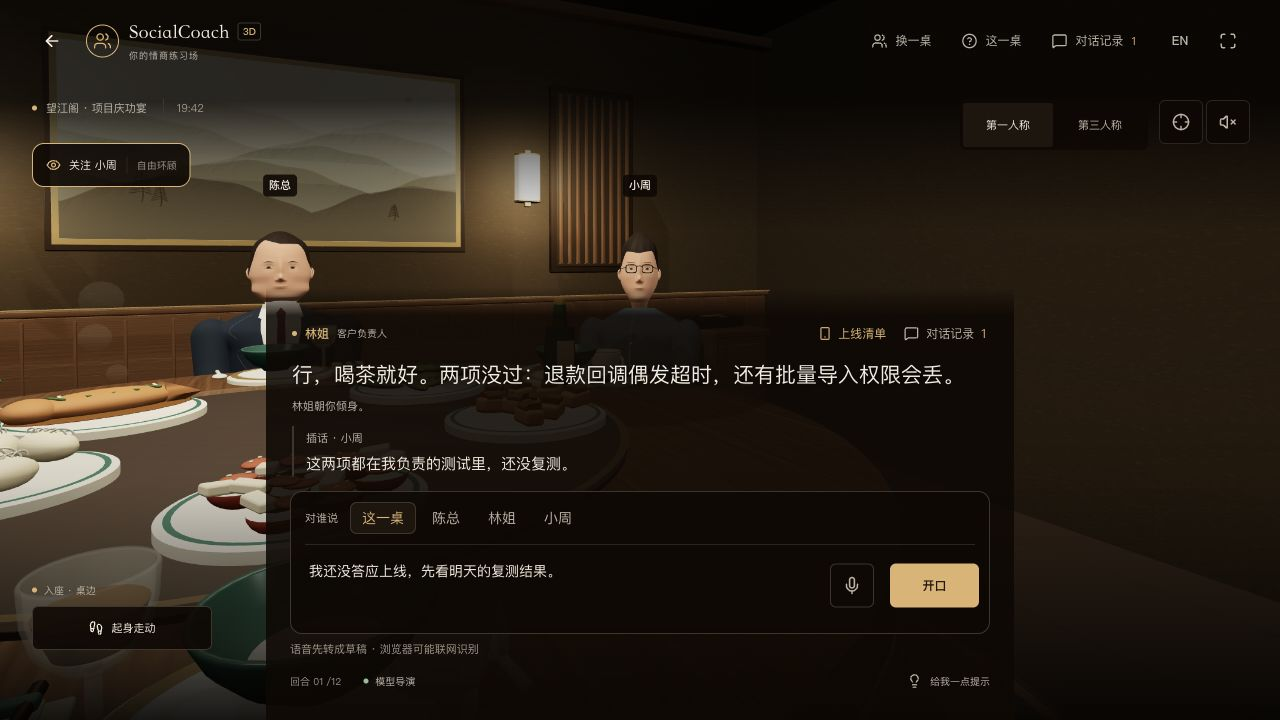
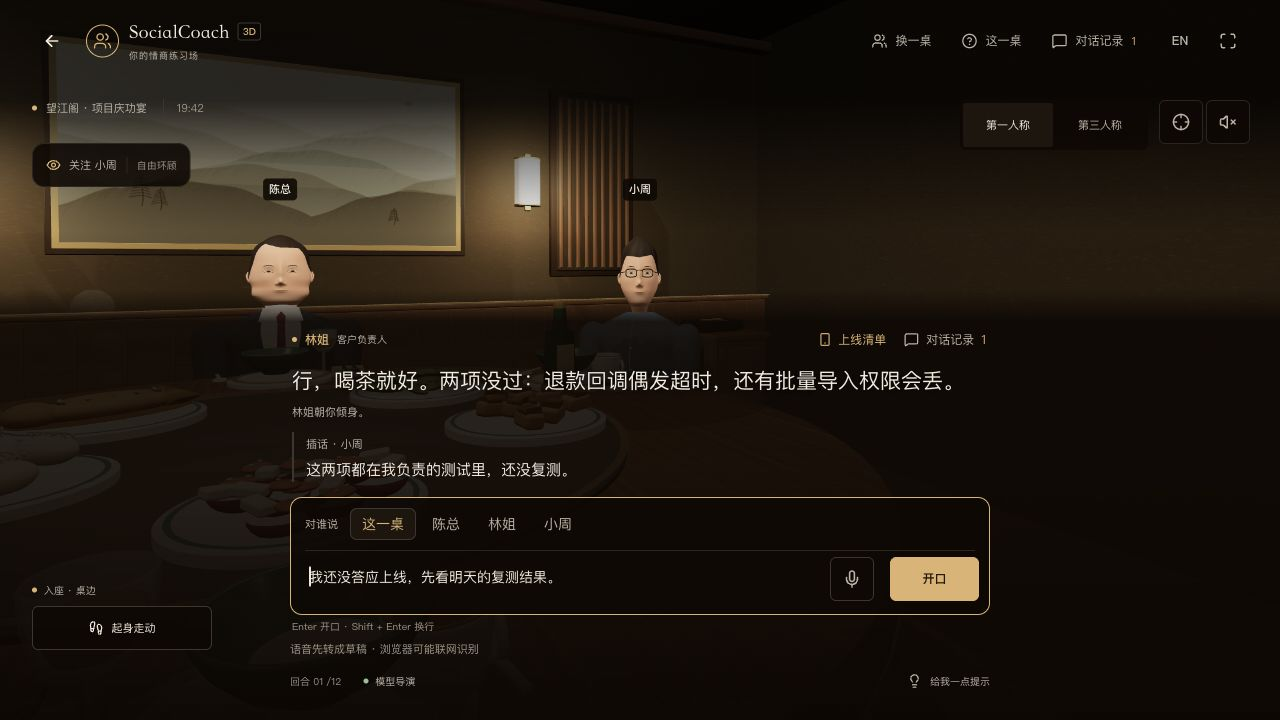
fix: blend dinner caption shading behind scene controls

diff --git a/app/src/app/globals.css b/app/src/app/globals.css
@@ -542,6 +542,7 @@ input[type="range"]::-moz-range-thumb { width: 22px; height: 22px; border-radius
 .dinner-experience .scene-viewport canvas { display:block; touch-action:none; }
 .dinner-experience .dinner-render { position:relative; width:100%; height:100%; }
 .dinner-experience .cinematic-scrim { position:absolute; inset:0; pointer-events:none; background:linear-gradient(to bottom,var(--dinner-scrim-top) 0%,var(--dinner-scrim-top) 14%,var(--dinner-clear) 32%,var(--dinner-clear) 57%,var(--dinner-scrim-middle) 67%,var(--dinner-scrim-bottom) 100%); }
+.dinner-experience .cinematic-scrim::after {content:'';position:absolute;bottom:0;left:0;right:0;height:calc(var(--dinner-hud-height,300px) + 45px);pointer-events:none;background:linear-gradient(to bottom,var(--dinner-clear),var(--dinner-scene-overlay) 32px,var(--dinner-scene-overlay));}
 .dinner-experience .topbar { position:absolute; top:0; left:0; right:0; display:flex; align-items:center; gap:24px; height:82px; padding:0 30px; z-index:30; }
 .dinner-experience .brand { display:flex; align-items:center; gap:10px; margin-right:auto; min-height:44px; }
 .dinner-experience .brand-mark { width:33px; height:33px; border:1px solid var(--dinner-accent); border-radius:50%; display:grid; place-items:center; color:var(--dinner-accent); }
@@ -578,8 +579,7 @@ input[type="range"]::-moz-range-thumb { width: 22px; height: 22px; border-radius
 .dinner-experience .character-popover strong { display:block; font-size:19px; font-family:var(--dinner-font-display); }
 .dinner-experience .character-popover>span { font-size:11px; color:var(--dinner-accent); }
 .dinner-experience .character-popover p { font-size:12px; margin:10px 0 0; color:var(--dinner-ink-secondary); }
-.dinner-experience .conversation { position:absolute; bottom:17px; left:50%; transform:translateX(-50%); width:min(700px,calc(100% - 48px)); z-index:25; isolation:isolate; }
-.dinner-experience .conversation::before {content:'';position:absolute;inset:-24px -24px -30px;z-index:-1;pointer-events:none;background:linear-gradient(to bottom,var(--dinner-clear),var(--dinner-scene-overlay) 28px,var(--dinner-scene-overlay));}
+.dinner-experience .conversation { position:absolute; bottom:17px; left:50%; transform:translateX(-50%); width:min(700px,calc(100% - 48px)); z-index:25; }
 .dinner-experience .dialogue { text-align:center; animation:dinner-rise 280ms var(--dinner-ease-out); max-height:220px; overflow-y:auto; padding:8px 12px 0; scrollbar-width:thin; }
 .dinner-experience .speaker-line { display:flex; justify-content:center; align-items:center; gap:8px; font-size:12px; }
 .dinner-experience .speaker-line strong { font-weight:500; color:var(--dinner-accent); }
